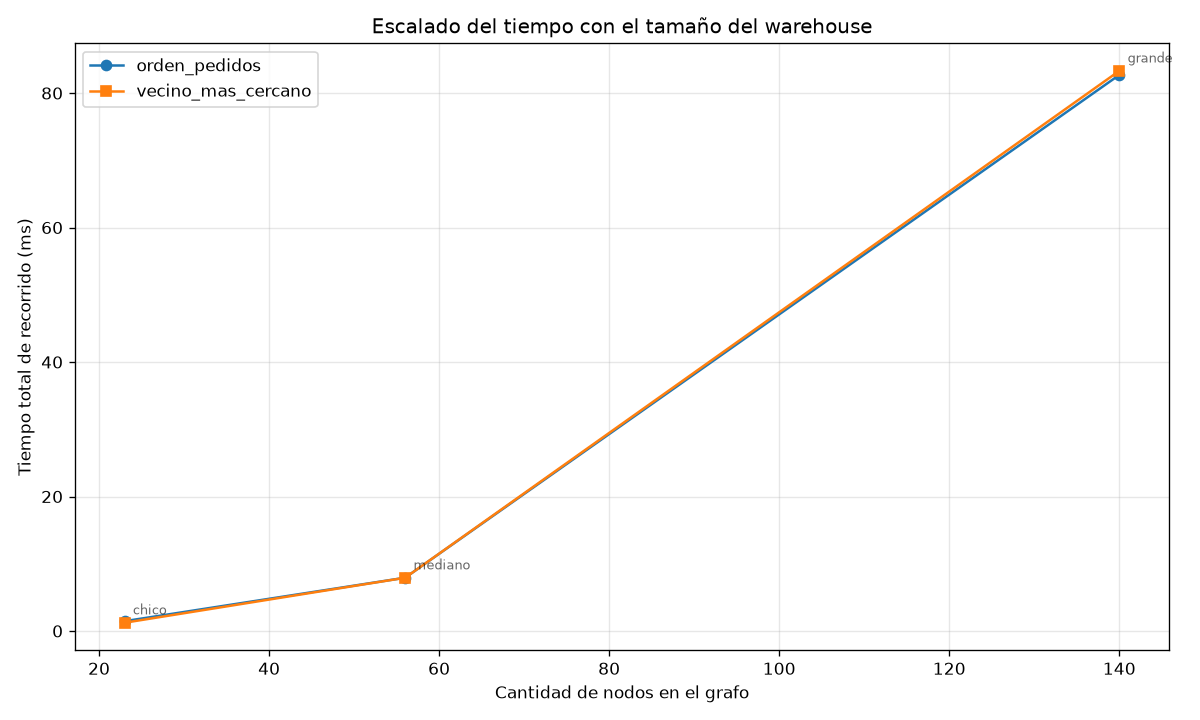
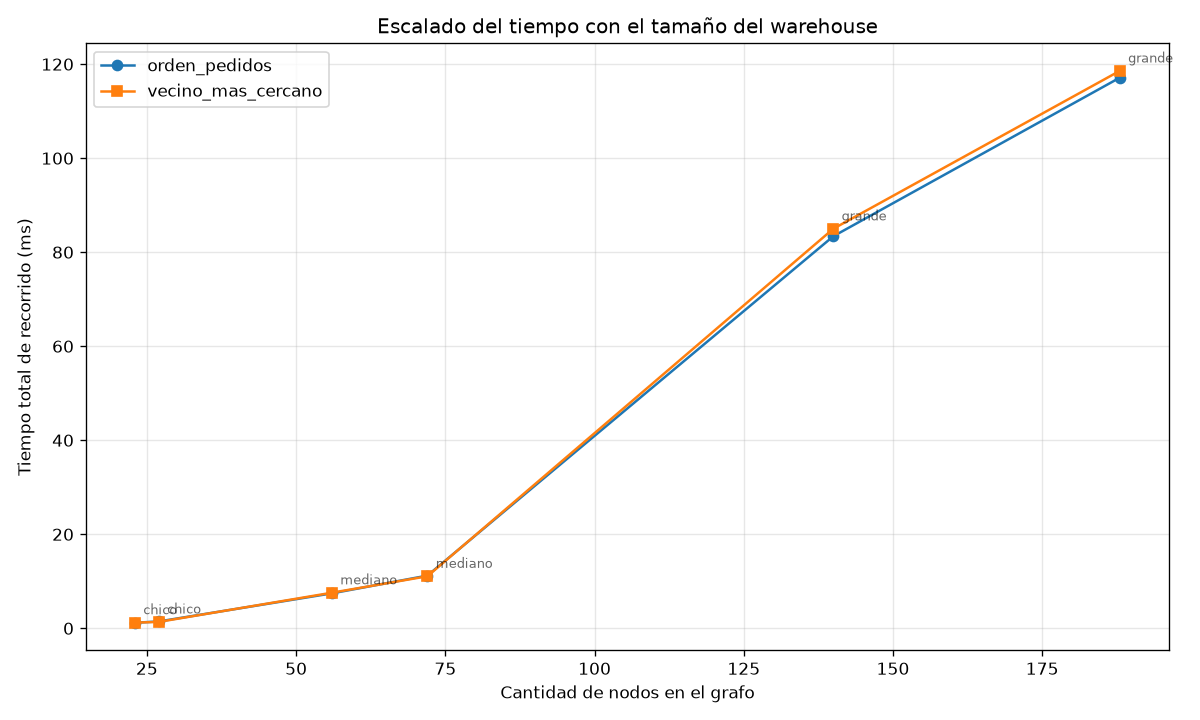
add graficos, mejoraestrategia y render

diff --git a/scripts/comparar_estrategias.py b/scripts/comparar_estrategias.py
@@ -1,8 +1,9 @@
 """
-Script de experimentación.
+Script de experimentación extendido.
 
-Genera escenarios de 3 tamaños con 3 seeds cada uno, produce waves y compara
-las dos estrategias de recorrido. Guarda resultados en CSV.
+Genera escenarios de 3 tamaños × 3 seeds × 2 configuraciones de pasillos
+horizontales. Produce waves y compara las dos estrategias de recorrido.
+Guarda resultados en CSV.
 
 Uso:
     python scripts/comparar_estrategias.py
@@ -24,7 +25,8 @@ from warehouse.waves.generador_waves import EstrategiaWaves, generar_waves
 
 
 def _configs_base() -> dict[str, ConfigGeneracion]:
-    """Configuración geométrica por tamaño. El seed se asigna en el loop."""
+    """Configuración geométrica por tamaño. El seed y los pasillos H se
+    asignan en el loop."""
     return {
         "chico": ConfigGeneracion(
             n_bloques_racks=2,
@@ -57,6 +59,10 @@ def _configs_base() -> dict[str, ConfigGeneracion]:
 
 
 SEEDS = [1, 2, 3]
+
+# Cada cuántas filas poner un pasillo horizontal. 0 = solo arriba/abajo.
+PASILLOS_H = [0, 3]
+
 ESTRATEGIA_WAVES = EstrategiaWaves.PRIORIDAD_Y_CERCANIA
 
 
@@ -86,7 +92,8 @@ def _correr_escenario(
     )
     t_waves = perf_counter() - t0
 
-    escenario_id = f"{nombre_tamano}_s{cfg.seed}"
+    ph = cfg.cada_cuantas_filas_pasillo_horizontal
+    escenario_id = f"{nombre_tamano}_s{cfg.seed}_ph{ph}"
 
     for wave in waves:
         for nombre_estrat in ESTRATEGIAS:
@@ -100,6 +107,7 @@ def _correr_escenario(
                     "escenario": escenario_id,
                     "tamano": nombre_tamano,
                     "seed": cfg.seed,
+                    "pasillos_h": ph,
                     "ancho": escenario.warehouse.ancho,
                     "alto": escenario.warehouse.alto,
                     "n_racks": len(escenario.warehouse.racks),
@@ -144,6 +152,7 @@ def _resumir(filas_waves: list[dict]) -> list[dict]:
                 "escenario": escenario,
                 "tamano": primera["tamano"],
                 "seed": primera["seed"],
+                "pasillos_h": primera["pasillos_h"],
                 "ancho": primera["ancho"],
                 "alto": primera["alto"],
                 "n_racks": primera["n_racks"],
@@ -185,6 +194,7 @@ def _guardar_config(configs: dict[str, ConfigGeneracion], path: Path) -> None:
     path.parent.mkdir(parents=True, exist_ok=True)
     data = {
         "seeds": SEEDS,
+        "pasillos_h": PASILLOS_H,
         "estrategia_waves": ESTRATEGIA_WAVES.value,
         "estrategias_recorrido": list(ESTRATEGIAS.keys()),
         "tamanos": {nombre: asdict(cfg) for nombre, cfg in configs.items()},
@@ -198,20 +208,43 @@ def _guardar_config(configs: dict[str, ConfigGeneracion], path: Path) -> None:
 def _imprimir_resumen(resumen: list[dict]) -> None:
     print()
     print(
-        f"{'escenario':<15} {'estrategia':<20} "
+        f"{'escenario':<22} {'estrategia':<20} "
         f"{'n_waves':>8} {'dist_total':>12} {'dist_media':>12} "
         f"{'t_total_ms':>12}"
     )
-    print("-" * 85)
+    print("-" * 95)
     for fila in resumen:
         print(
-            f"{fila['escenario']:<15} "
+            f"{fila['escenario']:<22} "
             f"{fila['estrategia_recorrido']:<20} "
             f"{fila['n_waves']:>8} "
             f"{fila['dist_total']:>12.1f} "
             f"{fila['dist_media']:>12.2f} "
             f"{fila['t_recorrido_total_s'] * 1000:>12.2f}"
         )
+
+
+def _imprimir_comparacion_por_pasillos(resumen: list[dict]) -> None:
+    """Tabla agregada por tamaño × pasillos_h × estrategia, promediando seeds."""
+    print()
+    print("=" * 80)
+    print("COMPARACIÓN POR TAMAÑO Y PASILLOS HORIZONTALES")
+    print("=" * 80)
+
+    # Agrupar por (tamano, pasillos_h, estrategia)
+    grupos: dict[tuple, list[float]] = {}
+    for fila in resumen:
+        clave = (fila["tamano"], fila["pasillos_h"], fila["estrategia_recorrido"])
+        grupos.setdefault(clave, []).append(fila["dist_total"])
+
+    print()
+    print(
+        f"{'tamaño':<10} {'pasillos_h':>12} {'estrategia':<22} " f"{'dist_media':>12}"
+    )
+    print("-" * 60)
+    for (tam, ph, estrat), dists in sorted(grupos.items()):
+        media = statistics.mean(dists)
+        print(f"{tam:<10} {ph:>12} {estrat:<22} {media:>12.1f}")
 
 
 # --- main ---
@@ -225,13 +258,32 @@ def main() -> None:
     filas_waves: list[dict] = []
 
     print("Corriendo experimentos...")
+    print(f"  Tamaños:    {list(configs.keys())}")
+    print(f"  Seeds:      {SEEDS}")
+    print(f"  Pasillos H: {PASILLOS_H}")
+    print()
+
+    total = len(configs) * len(SEEDS) * len(PASILLOS_H)
+    corriendo = 0
+
     for nombre_tamano, base in configs.items():
-        for seed in SEEDS:
-            cfg = replace(base, seed=seed)
-            print(f"  {nombre_tamano} seed={seed}...", end=" ", flush=True)
-            t0 = perf_counter()
-            _correr_escenario(nombre_tamano, cfg, filas_waves)
-            print(f"OK ({perf_counter() - t0:.2f}s)")
+        for ph in PASILLOS_H:
+            for seed in SEEDS:
+                cfg = replace(
+                    base,
+                    seed=seed,
+                    cada_cuantas_filas_pasillo_horizontal=ph,
+                )
+                corriendo += 1
+                print(
+                    f"  [{corriendo:>2}/{total}] "
+                    f"{nombre_tamano} seed={seed} pasillos_h={ph}...",
+                    end=" ",
+                    flush=True,
+                )
+                t0 = perf_counter()
+                _correr_escenario(nombre_tamano, cfg, filas_waves)
+                print(f"OK ({perf_counter() - t0:.2f}s)")
 
     resumen = _resumir(filas_waves)
 
@@ -243,6 +295,7 @@ def main() -> None:
     print(f"Total de filas: {len(filas_waves)}")
     print(f"Resultados guardados en: {dir_resultados}")
     _imprimir_resumen(resumen)
+    _imprimir_comparacion_por_pasillos(resumen)
 
 
 if __name__ == "__main__":

diff --git a/src/warehouse/visualizacion/render.py b/src/warehouse/visualizacion/render.py
@@ -26,30 +26,38 @@ def dibujar_warehouse(
     margen: int,
 ) -> dict[tuple[int, int], tuple[float, float, float, float]]:
     """
-    Dibuja el warehouse y devuelve el mapa (x, y) -> (x0, y0, x1, y1) en píxeles.
-    El eje y se invierte para que (0,0) quede abajo (despacho abajo, racks arriba).
+    Dibuja el warehouse centrado en el canvas.
+    El canvas debe tener width/height configurados.
     """
     coords: dict[tuple[int, int], tuple[float, float, float, float]] = {}
-    ancho_px = warehouse.ancho * celda_px
-    alto_px = warehouse.alto * celda_px
+
+    ancho_warehouse = warehouse.ancho * celda_px
+    alto_warehouse = warehouse.alto * celda_px
+
+    ancho_canvas = int(canvas["width"])
+    alto_canvas = int(canvas["height"])
+
+    # Offset para centrar (mínimo margen)
+    offset_x = max((ancho_canvas - ancho_warehouse) // 2, margen)
+    offset_y = max((alto_canvas - alto_warehouse) // 2, margen)
 
     def celda_a_px(x: int, y: int) -> tuple[float, float, float, float]:
-        x0 = margen + x * celda_px
-        y0 = margen + (warehouse.alto - 1 - y) * celda_px
+        x0 = offset_x + x * celda_px
+        y0 = offset_y + (warehouse.alto - 1 - y) * celda_px
         return (x0, y0, x0 + celda_px, y0 + celda_px)
 
-    # Rectángulo de fondo
+    # Rectángulo exterior
     canvas.create_rectangle(
-        margen - 2,
-        margen - 2,
-        margen + ancho_px + 2,
-        margen + alto_px + 2,
+        offset_x - 2,
+        offset_y - 2,
+        offset_x + ancho_warehouse + 2,
+        offset_y + alto_warehouse + 2,
         fill="white",
         outline=COLOR_BORDE_EXT,
         width=2,
     )
 
-    # Pasillos / despacho / puertas (nodos del grafo)
+    # Pasillos, despacho, puertas (nodos del grafo)
     for nodo in warehouse.grafo.nodos():
         x, y = nodo.posicion.x, nodo.posicion.y
         coords[(x, y)] = celda_a_px(x, y)
